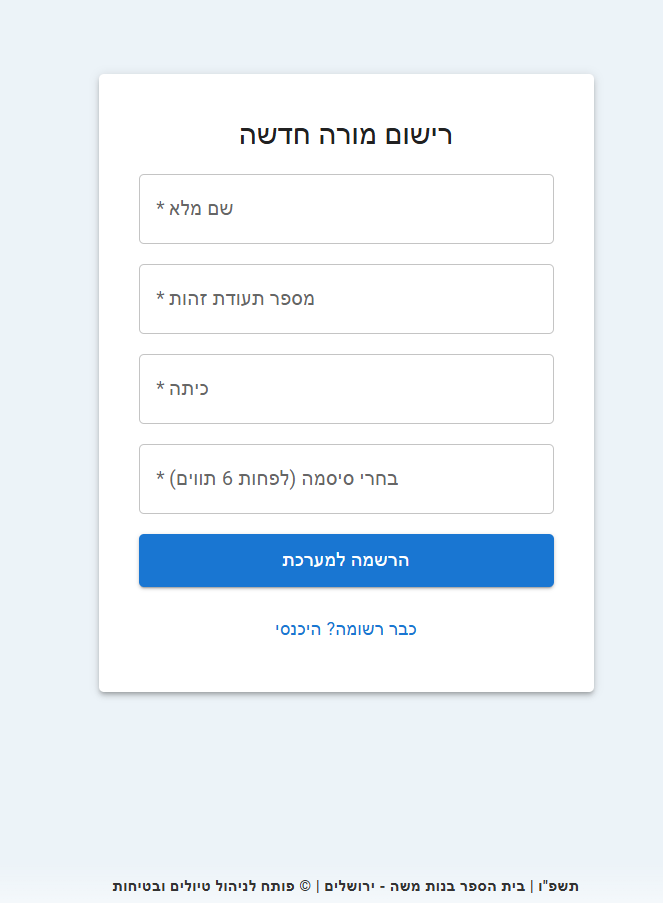
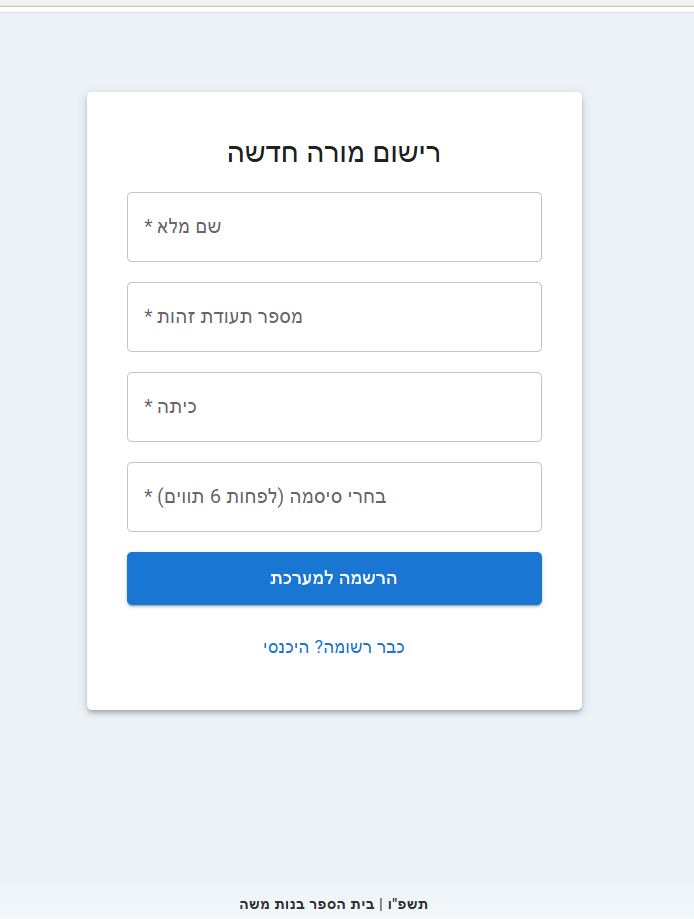
Update readme file after changing styling

diff --git a/frontend/src/components/Footer.jsx b/frontend/src/components/Footer.jsx
@@ -17,7 +17,7 @@ const Footer = () => {
             background: 'linear-gradient(transparent, rgba(255, 255, 255, 0.5))' 
         }}>
             <Typography variant="caption" sx={{ color: '#333', fontWeight: 'bold' }}>
-                 תשפ"ו | בית הספר בנות משה - ירושלים   
+                 תשפ"ו | בית הספר בנות משה    
             </Typography>
         </Box>
     );

diff --git a/README.md b/README.md
@@ -17,15 +17,15 @@ DB - mongoDB
 ## אופן השימוש
 מערכת לניהול תלמידות בטיול שנתי בירושלים.
 בחירה בין מורה לתלמידה
-![צילום מסך דף הבית](![alt text](assets/image.png))
+![alt text](assets/image.png)
 מורה
 ![alt text](assets/image-1.png)
 DashBoard - מורה
 ![alt text](assets/image-2.png)
 תלמידה
-![alt text](assets/image-4.png)
+![alt text](assets/image-3.png)
 DashBoard - תלמידה
-![alt text](assets/image-5.png)
+![alt text](assets/image-4.png)
 
 ## התקנה והרצה
 1.  הורדת הפרוייקט - clone
